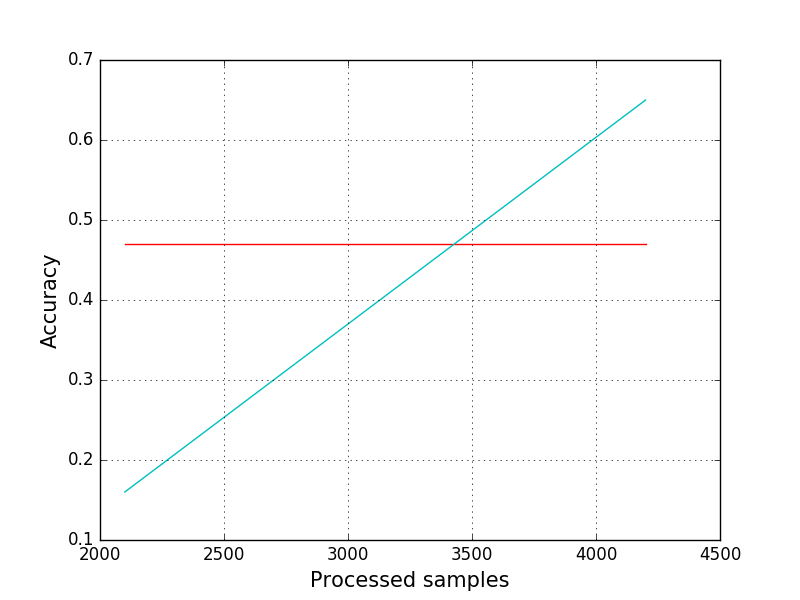
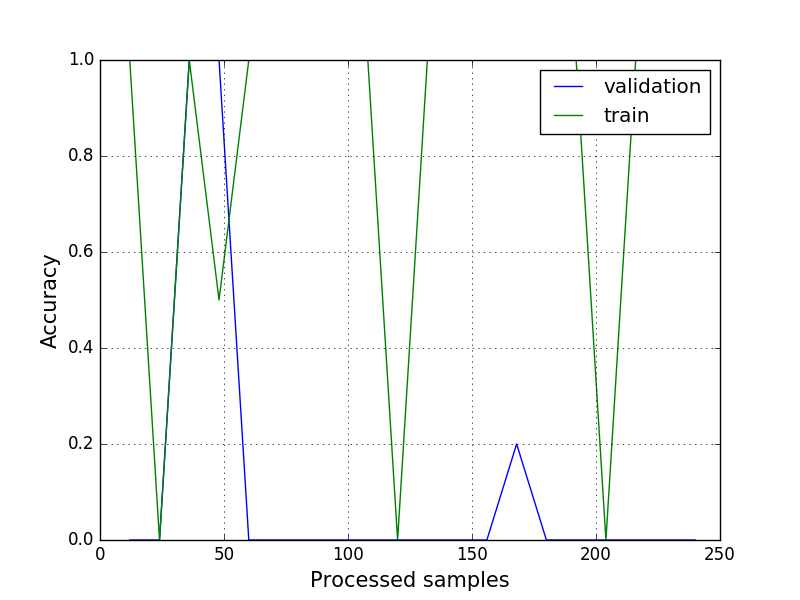
fix png legend

diff --git a/project/bpRNN.py b/project/bpRNN.py
@@ -95,7 +95,7 @@ def calc_f1(precision, recall):
 # Variables
 NUM_OUTPUTS = 2
 VOCABULARY = max_encoding + 1#len(encodings)
-NUM_UNITS_ENC = 100 #TODO: Larger networks? Play around with hyper-parameters
+NUM_UNITS_ENC = 5 #TODO: Larger networks? Play around with hyper-parameters
 NUM_UNITS_DEC = NUM_UNITS_ENC
 MAX_OUT_LABELS = 1
 # Symbolic Theano variables
@@ -213,11 +213,11 @@ cost = mean_cost
 
 all_parameters = lasagne.layers.get_all_params([l_out], trainable=True)
 
-# print "Trainable Model Parameters"
-# print "-"*40
-# for param in all_parameters:
-#     print param, param.get_value().shape
-# print "-"*40
+print "Trainable Model Parameters"
+print "-"*40
+for param in all_parameters:
+    print param, param.get_value().shape
+print "-"*40
 
 all_grads = [T.clip(g,-3,3) for g in T.grad(cost, all_parameters)]
 all_grads = lasagne.updates.total_norm_constraint(all_grads,3)
@@ -231,15 +231,15 @@ test_func = theano.function([x_sym, y_sym, xmask_sym], [acc, output_test, c_true
 reset_batches()
 # Generate validation data
 slice_size = 1000
-Xval, Yval, Xmask_val = get_batch(5000)
-Xtest, Ytest, Xmask_test = get_batch(35000)
+Xval, Yval, Xmask_val = get_batch(5)#000)
+Xtest, Ytest, Xmask_test = get_batch(35)#000)
 # print "Xval", Xval.shape
 # print "Yval", Yval.shape
 
 # TRAINING
-BATCH_SIZE = 100
-val_interval = BATCH_SIZE*100
-samples_to_process = 240000
+BATCH_SIZE = 2
+val_interval = BATCH_SIZE*5
+samples_to_process = 240#000
 
 
 samples_processed = 0
@@ -332,6 +332,7 @@ try:
             accs_val += [val_acc]
 
             ## Make acc png
+            plt.clf()
             plt.plot(val_samples,accs_val, label='validation')
             plt.title('', fontsize=20)
             plt.grid('on')
@@ -340,7 +341,8 @@ try:
             plt.xlabel('Processed samples', fontsize=15)
             plt.title('', fontsize=20)
             plt.grid('on')
-            plt.savefig(output_folder + "acc.png")
+            plt.legend(loc='best')
+            plt.savefig(output_folder + "acc_.png")
 
             # plt.plot(val_samples,accs_val)
             # plt.ylabel('Validation Accuracy', fontsize=15)
@@ -383,14 +385,18 @@ except:
 
 # print(len(costs))
 # print((costs[0]))
+# Save the legend to the acc png
+# plt.legend(loc='best')
+# plt.savefig(output_folder + "acc.png")
 # Make train cost png
 plt.clf()
-plt.plot(train_samples,costs)
+plt.plot(train_samples,costs, label='cost')
 plt.ylabel('Train costs', fontsize=15)
 plt.xlabel('Processed samples', fontsize=15)
 plt.title('', fontsize=20)
 plt.grid('on')
-plt.savefig(output_folder + "cost_train.png")
+plt.legend(loc='best')
+plt.savefig(output_folder + "cost_train_.png")
 
 # print(len(accs_train))
 # print((accs_train[0]))

diff --git a/project/training_data.py b/project/training_data.py
@@ -347,7 +347,7 @@ i_train_end = 0
 content_examples = None
 boilerplate_examples = None
 
-data_filtered = load_training_data(seed=1337)
+data_filtered = load_training_data(9, seed=1337)
 
 # print("Page ids:")
 # for d in data_filtered:
